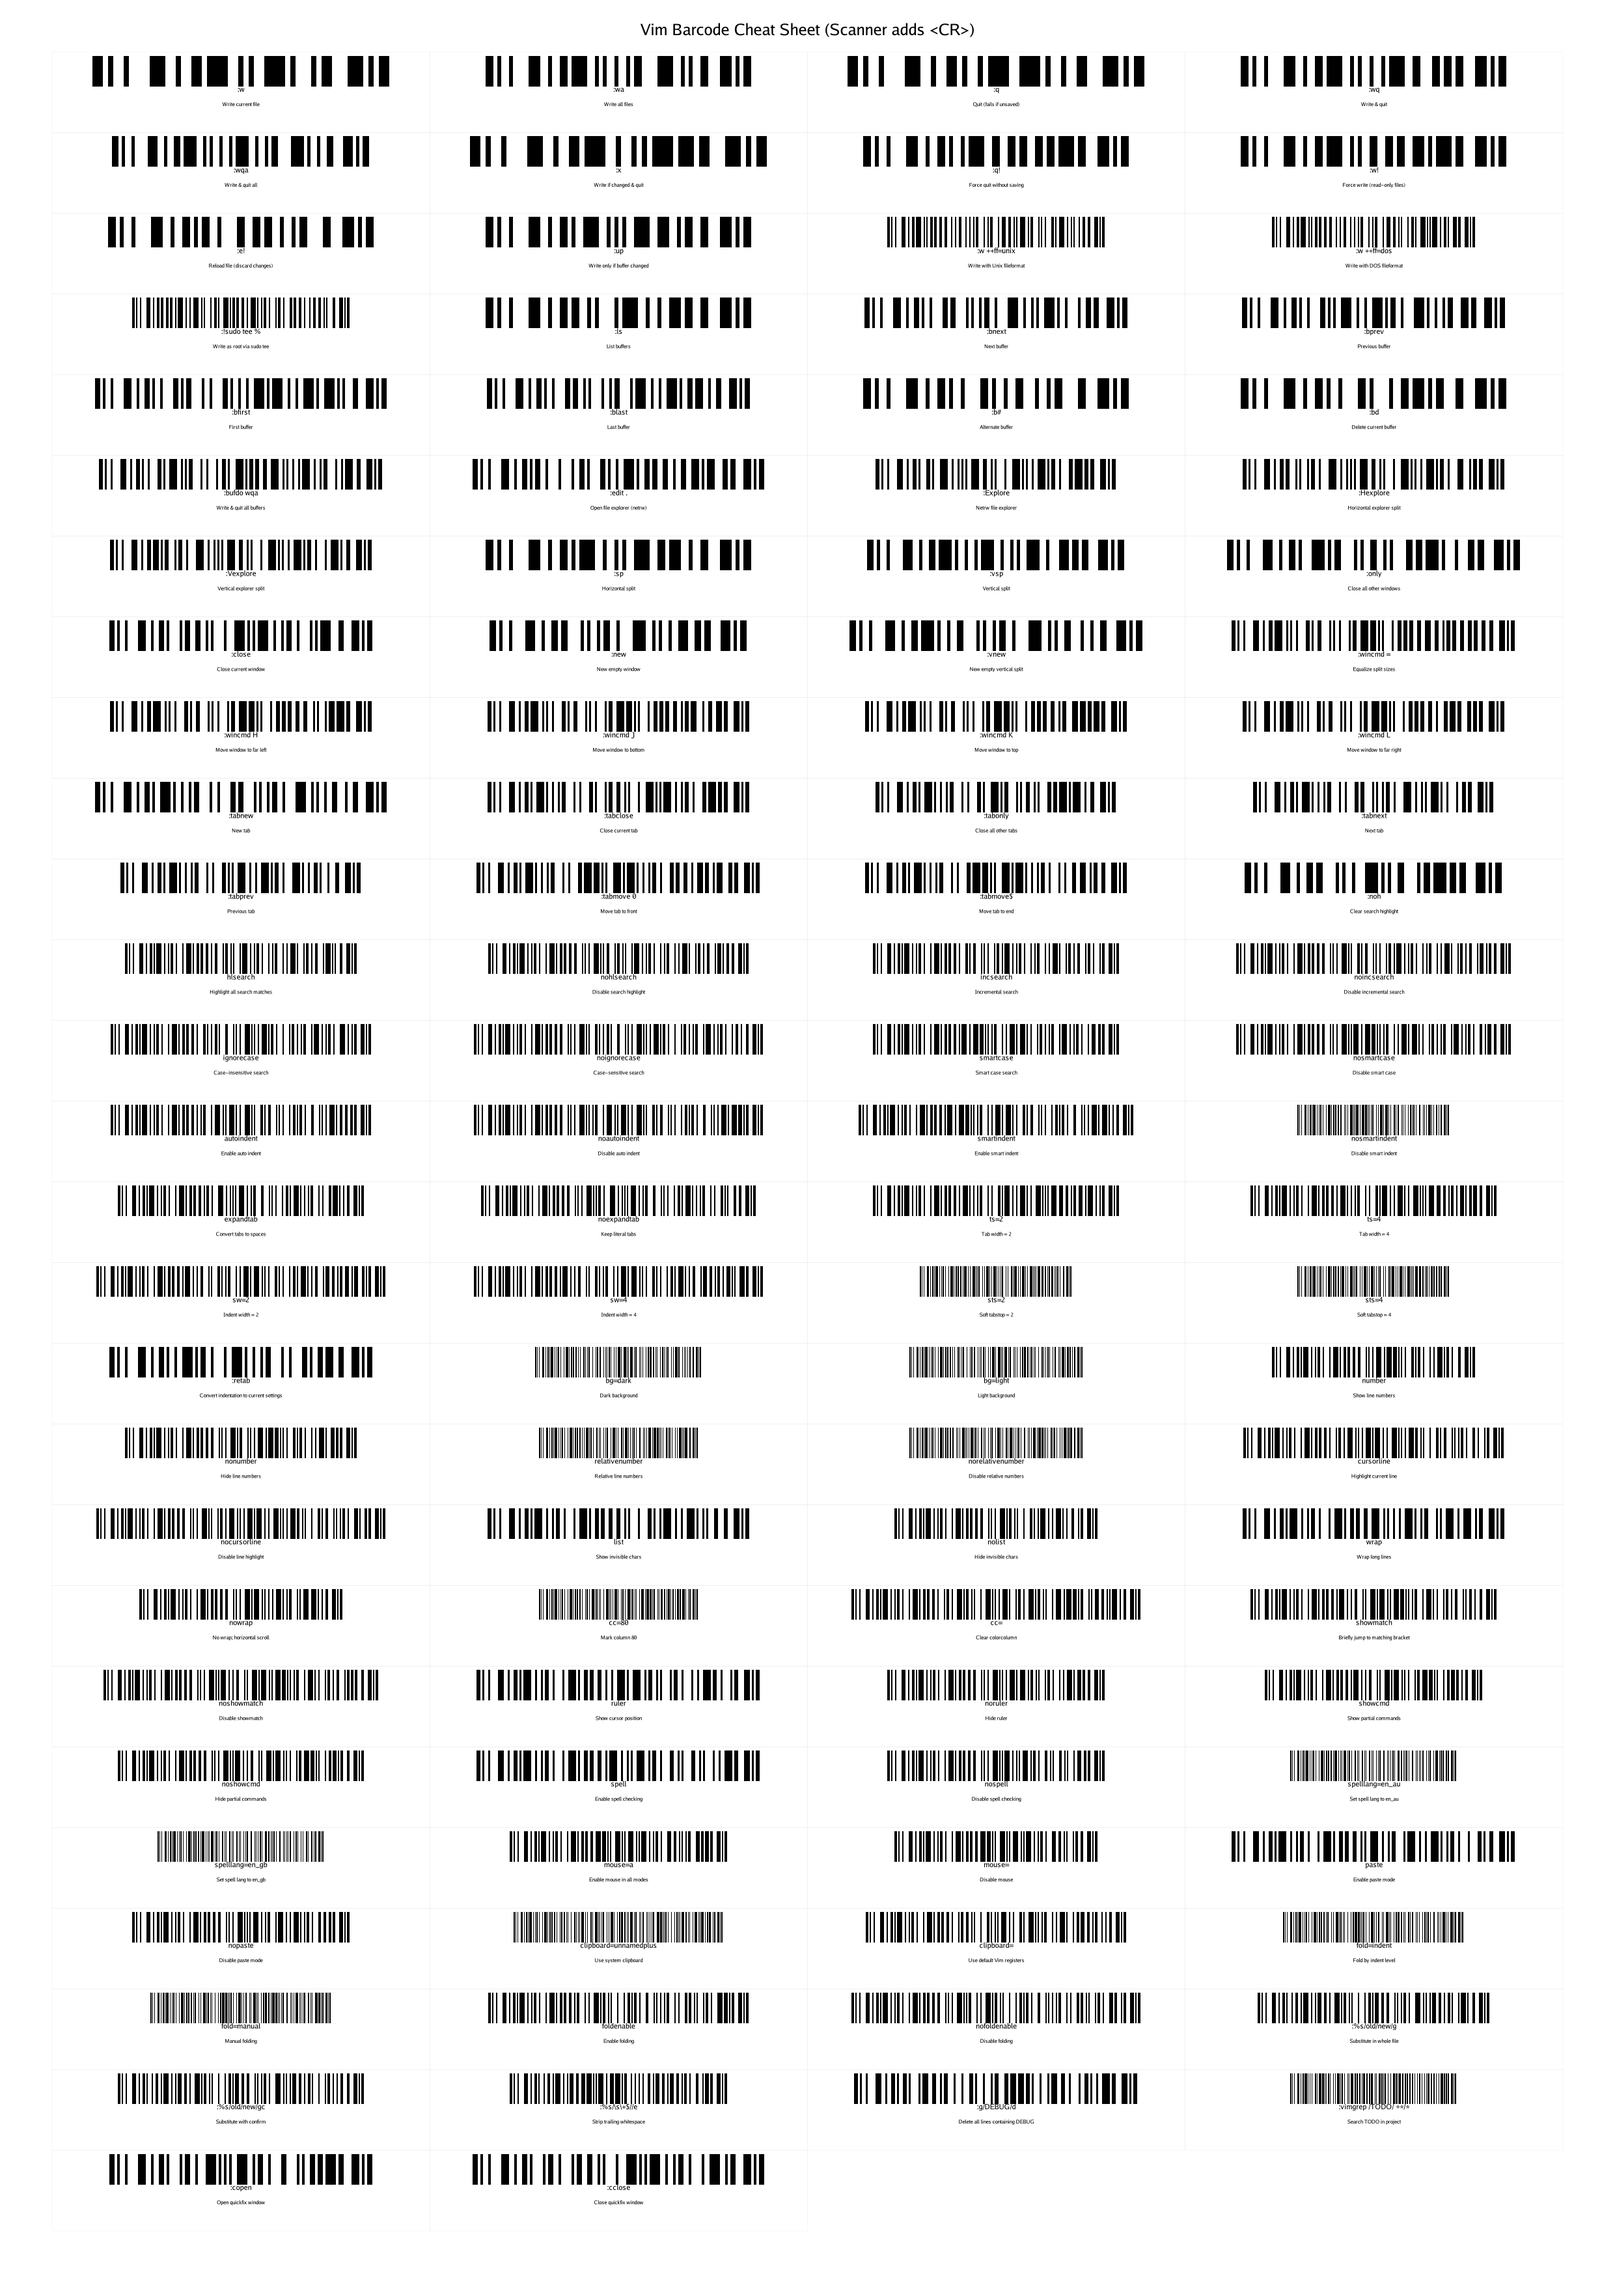
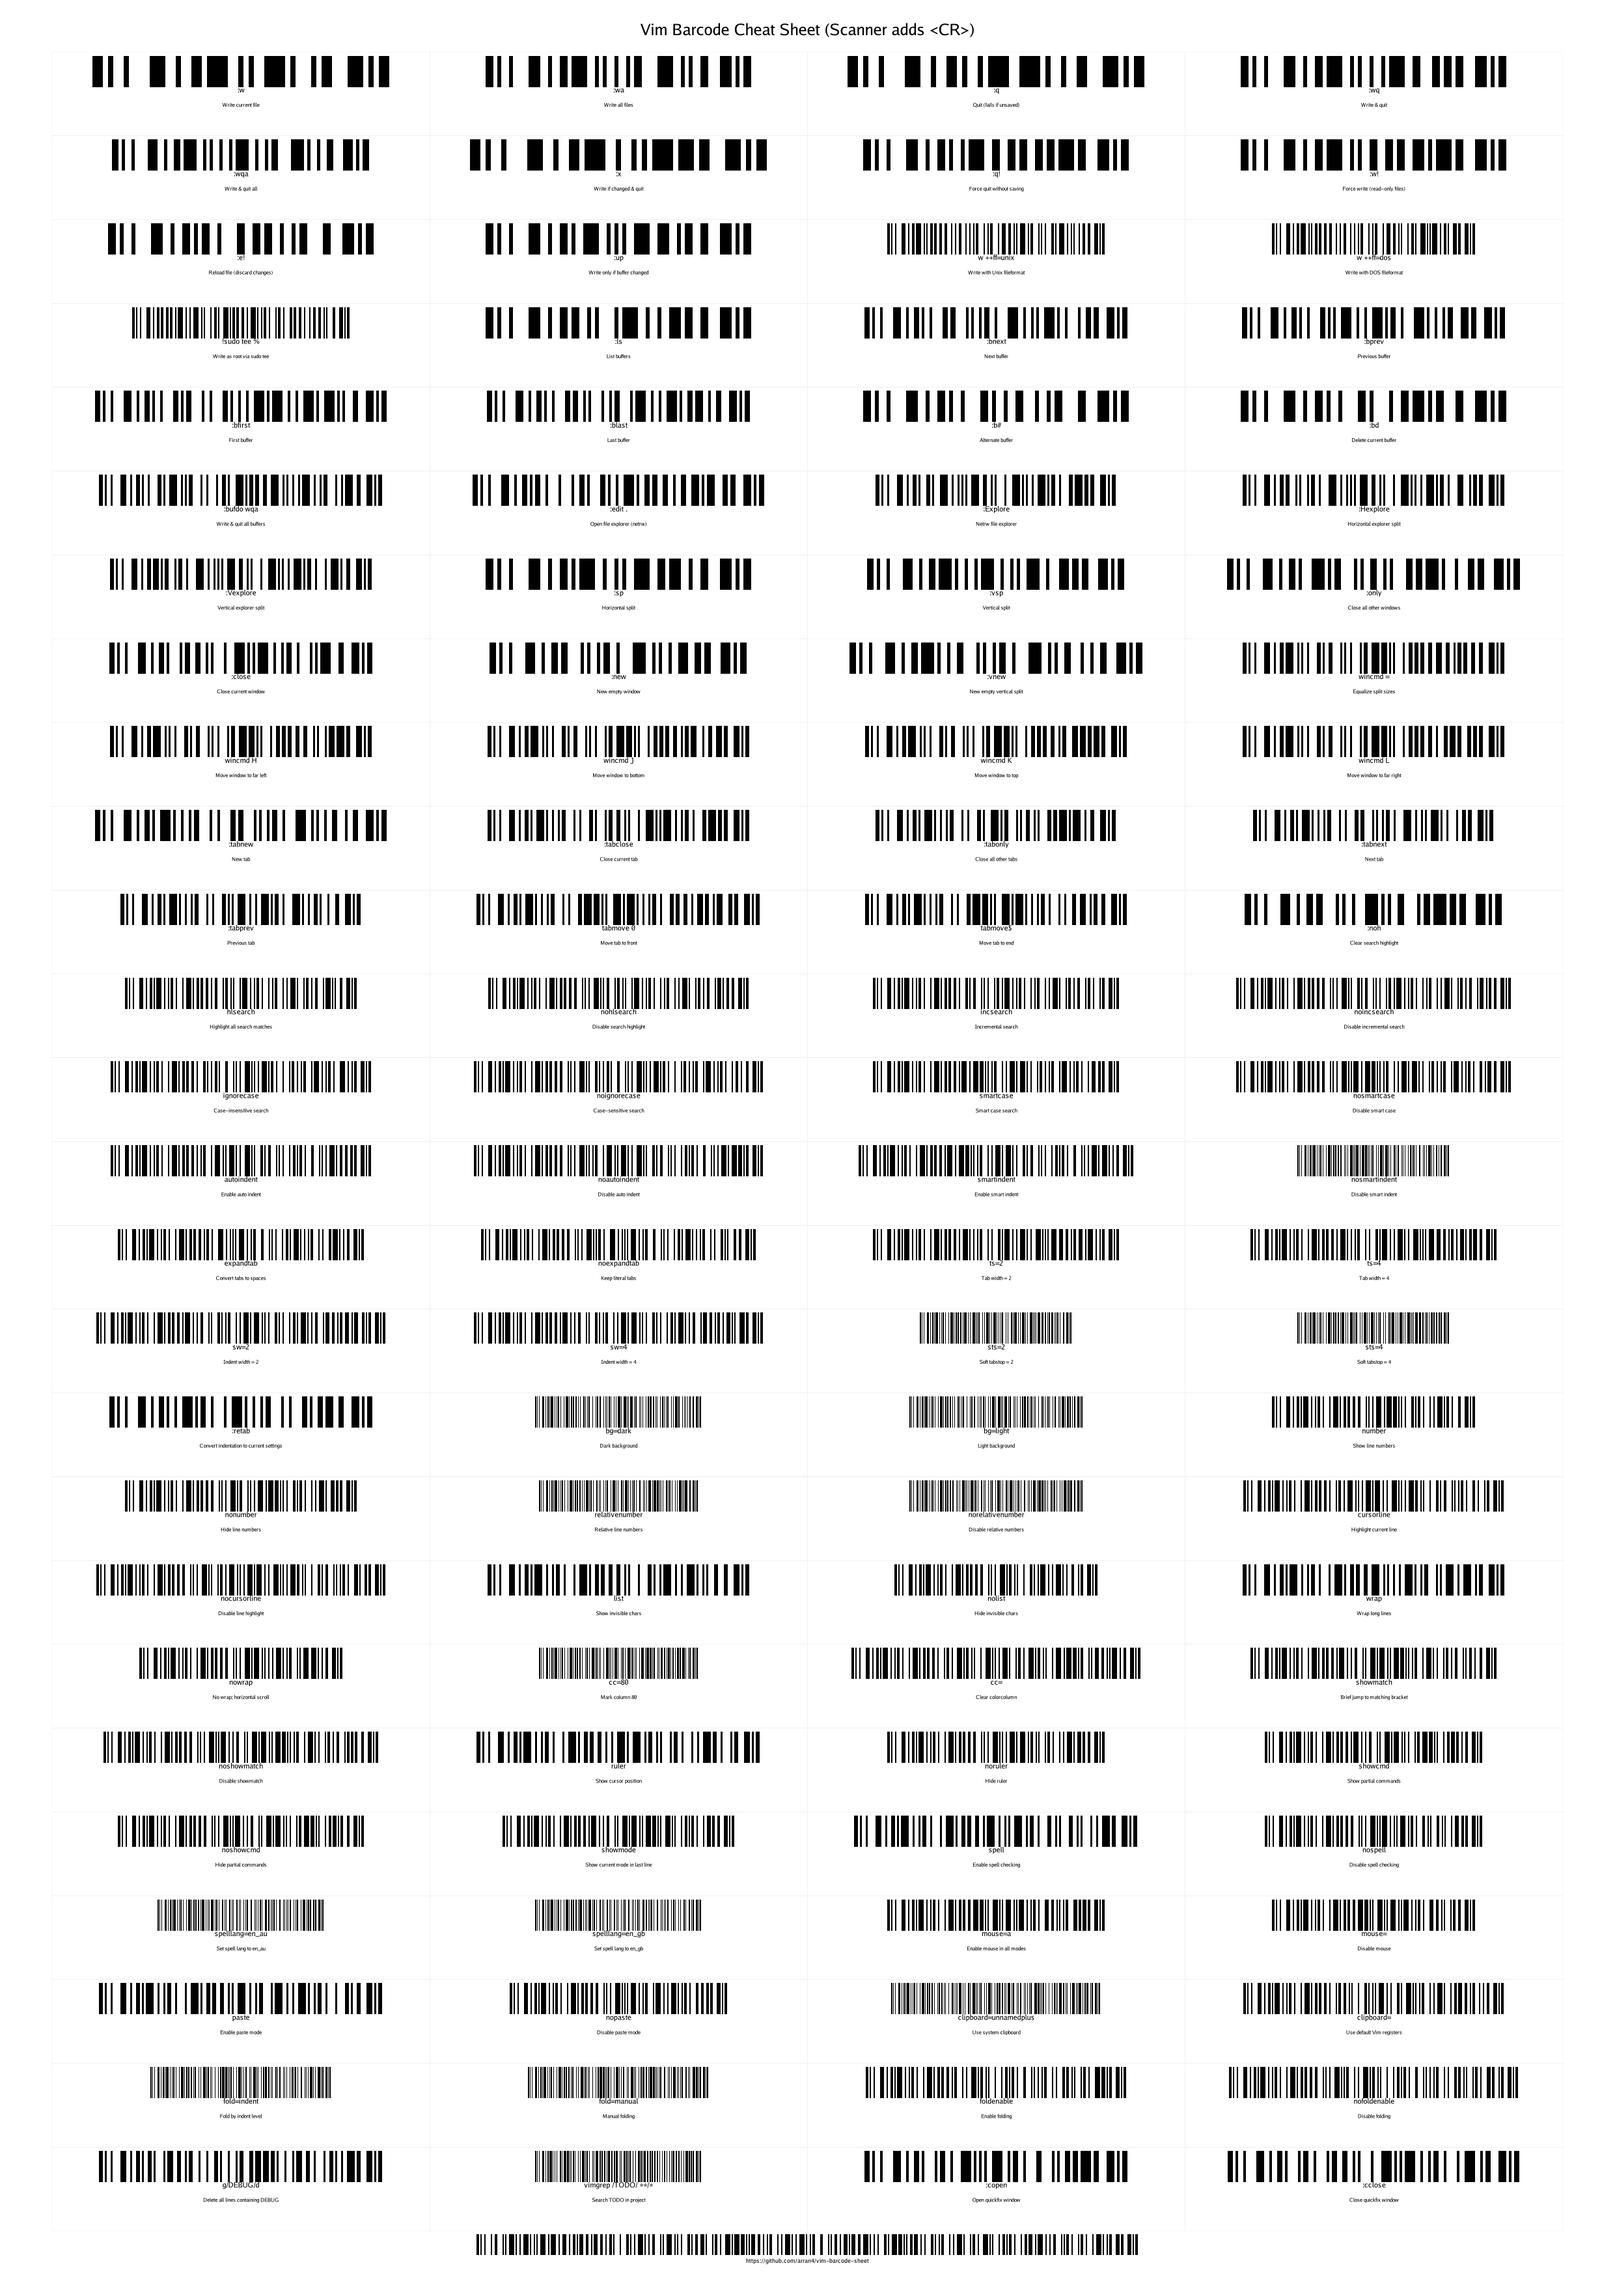
Next

Changed region(s): [[0.2793, 0.0932, 0.7138, 0.9946], [0.0621, 0.0932, 0.2483, 0.9635], [0.7449, 0.0622, 0.9311, 0.9635]]

diff --git a/main.go b/main.go
@@ -14,18 +14,19 @@ import (
 	"golang.org/x/image/font/opentype"
 )
 
-// NOTE: The scanner always appends <CR> (Enter). Therefore:
+// NOTE: Scanner always appends <CR> (Enter).
 // - All Code values below DO NOT include "<CR>" or a newline.
 // - They are mostly ":"-style ex commands where Enter is expected.
 
 // VimOp represents a single barcode entry.
 type VimOp struct {
 	Code        string // Exact string encoded in the barcode (no <CR>)
-	Label       string // Short label shown under barcode
+	Label       string // Short label printed under barcode
 	Description string // Human description
 }
 
 // Curated set of multi-keystroke commands where automatic <CR> is useful.
+// Length is 104 (divisible by 4) so a 4xN grid is perfectly filled.
 var vimOps = []VimOp{
 	// --- Files: write / quit / reload / sudo tricks ---
 	{":w", ":w", "Write current file"},
@@ -38,9 +39,9 @@ var vimOps = []VimOp{
 	{":w!", ":w!", "Force write (read-only files)"},
 	{":e!", ":e!", "Reload file (discard changes)"},
 	{":up", ":up", "Write only if buffer changed"},
-	{":w ++ff=unix", ":w ++ff=unix", "Write with Unix fileformat"},
-	{":w ++ff=dos", ":w ++ff=dos", "Write with DOS fileformat"},
-	{":!sudo tee %", ":!sudo tee %", "Write as root via sudo tee"},
+	{":w ++ff=unix", "w ++ff=unix", "Write with Unix fileformat"},
+	{":w ++ff=dos", "w ++ff=dos", "Write with DOS fileformat"},
+	{":!sudo tee %", "!sudo tee %", "Write as root via sudo tee"},
 
 	// --- Buffer / file navigation ---
 	{":ls", ":ls", "List buffers"},
@@ -63,11 +64,11 @@ var vimOps = []VimOp{
 	{":close", ":close", "Close current window"},
 	{":new", ":new", "New empty window"},
 	{":vnew", ":vnew", "New empty vertical split"},
-	{":wincmd = ", ":wincmd =", "Equalize split sizes"},
-	{":wincmd H", ":wincmd H", "Move window to far left"},
-	{":wincmd J", ":wincmd J", "Move window to bottom"},
-	{":wincmd K", ":wincmd K", "Move window to top"},
-	{":wincmd L", ":wincmd L", "Move window to far right"},
+	{":wincmd =", "wincmd =", "Equalize split sizes"},
+	{":wincmd H", "wincmd H", "Move window to far left"},
+	{":wincmd J", "wincmd J", "Move window to bottom"},
+	{":wincmd K", "wincmd K", "Move window to top"},
+	{":wincmd L", "wincmd L", "Move window to far right"},
 
 	// --- Tabs ---
 	{":tabnew", ":tabnew", "New tab"},
@@ -75,8 +76,8 @@ var vimOps = []VimOp{
 	{":tabonly", ":tabonly", "Close all other tabs"},
 	{":tabnext", ":tabnext", "Next tab"},
 	{":tabprev", ":tabprev", "Previous tab"},
-	{":tabmove 0", ":tabmove 0", "Move tab to front"},
-	{":tabmove$", ":tabmove$", "Move tab to end"},
+	{":tabmove 0", "tabmove 0", "Move tab to front"},
+	{":tabmove$", "tabmove$", "Move tab to end"},
 
 	// --- Search & highlight behaviour ---
 	{":noh", ":noh", "Clear search highlight"},
@@ -119,12 +120,13 @@ var vimOps = []VimOp{
 	{":set nowrap", "nowrap", "No wrap; horizontal scroll"},
 	{":set colorcolumn=80", "cc=80", "Mark column 80"},
 	{":set colorcolumn=", "cc=", "Clear colorcolumn"},
-	{":set showmatch", "showmatch", "Briefly jump to matching bracket"},
+	{":set showmatch", "showmatch", "Brief jump to matching bracket"},
 	{":set noshowmatch", "noshowmatch", "Disable showmatch"},
 	{":set ruler", "ruler", "Show cursor position"},
 	{":set noruler", "noruler", "Hide ruler"},
 	{":set showcmd", "showcmd", "Show partial commands"},
 	{":set noshowcmd", "noshowcmd", "Hide partial commands"},
+	{":set showmode", "showmode", "Show current mode in last line"},
 
 	// --- Spellchecking ---
 	{":set spell", "spell", "Enable spell checking"},
@@ -144,12 +146,9 @@ var vimOps = []VimOp{
 	{":set foldenable", "foldenable", "Enable folding"},
 	{":set nofoldenable", "nofoldenable", "Disable folding"},
 
-	// --- Global substitutions & quick refactors ---
-	{":%s/old/new/g", ":%s/old/new/g", "Substitute in whole file"},
-	{":%s/old/new/gc", ":%s/old/new/gc", "Substitute with confirm"},
-	{":%s/\\s\\+$//e", ":%s/\\s\\+$//e", "Strip trailing whitespace"},
-	{":g/DEBUG/d", ":g/DEBUG/d", "Delete all lines containing DEBUG"},
-	{":vimgrep /TODO/ **/*", ":vimgrep /TODO/ **/*", "Search TODO in project"},
+	// --- Project/search tools (non-editing) ---
+	{":g/DEBUG/d", "g/DEBUG/d", "Delete all lines containing DEBUG"},
+	{":vimgrep /TODO/ **/*", "vimgrep /TODO/ **/*", "Search TODO in project"},
 	{":copen", ":copen", "Open quickfix window"},
 	{":cclose", ":cclose", "Close quickfix window"},
 }
@@ -180,11 +179,12 @@ func main() {
 	title := "Vim Barcode Cheat Sheet (Scanner adds <CR>)"
 	dc.DrawStringAnchored(title, float64(width)/2, margin/2, 0.5, 0.5)
 
-	// Layout: many commands => 4 columns is a good balance
+	// Layout: 4 columns, automatic rows
 	cols := 4
 	rows := int(math.Ceil(float64(len(vimOps)) / float64(cols)))
 
 	top := margin
+	// grid uses [top, bottom); footer lives in the bottom margin area
 	bottom := float64(height) - margin
 	left := margin
 	right := float64(width) - margin
@@ -238,6 +238,34 @@ func main() {
 		descY := labelY + 12
 		dc.SetFontFace(mustGoRegularFace(8))
 		dc.DrawStringWrapped(op.Description, x+6, descY, 0, 0, cellWidth-12, 1.3, gg.AlignCenter)
+	}
+
+	// --- Footer: repo barcode + text ----------------------------------------
+	footerText := "https://github.com/arran4/vim-barcode-sheet"
+
+	footerRaw, err := code128.Encode(footerText)
+	if err != nil {
+		log.Printf("encode error for footer: %v", err)
+	} else {
+		footerBarcodeWidth := int(float64(width) * 0.6)
+		footerBarcodeHeight := int(margin * 0.4)
+
+		footerScaled, err := barcode.Scale(footerRaw, footerBarcodeWidth, footerBarcodeHeight)
+		if err != nil {
+			log.Printf("scale error for footer: %v", err)
+		} else {
+			// Place footer barcode in bottom margin, centred
+			footerTop := bottom + 5
+			fbX := float64(width)/2 - float64(footerScaled.Bounds().Dx())/2
+			fbY := footerTop
+			dc.DrawImage(footerScaled, int(fbX), int(fbY))
+
+			// Footer text under barcode
+			textY := fbY + float64(footerBarcodeHeight) + 12
+			dc.SetColor(color.Black)
+			dc.SetFontFace(mustGoRegularFace(9))
+			dc.DrawStringAnchored(footerText, float64(width)/2, textY, 0.5, 0)
+		}
 	}
 
 	out := "vim-barcodes-a4.png"

diff --git a/readme.md b/readme.md
@@ -1,3 +1,5 @@
 # Vim Barcode Cheetsheet
 
 ![vim-barcodes-a4.png](vim-barcodes-a4.png)
+
+Most of these barcodes are place holders until I think of something better to put there.
